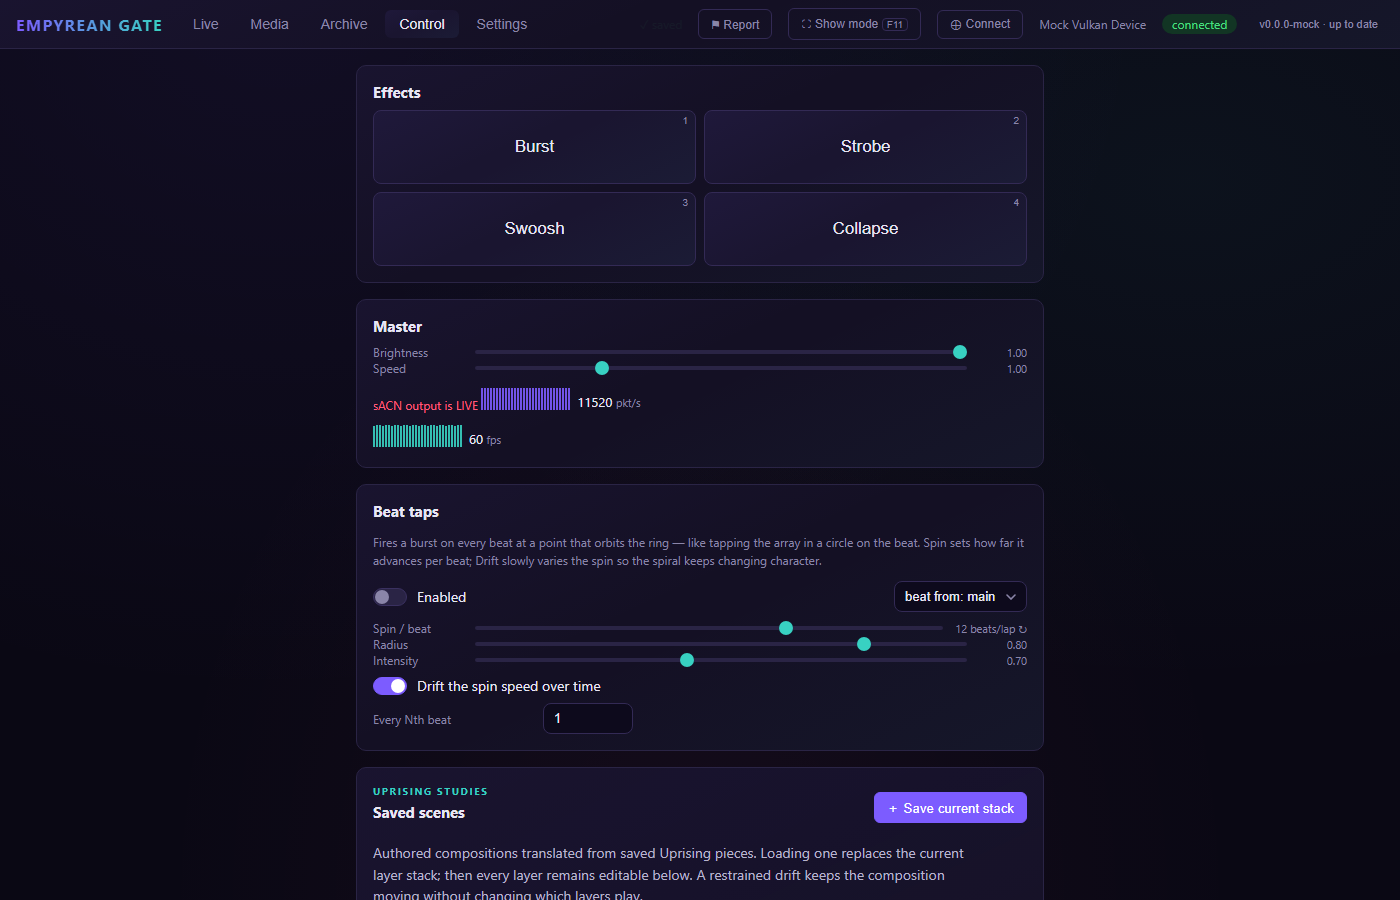
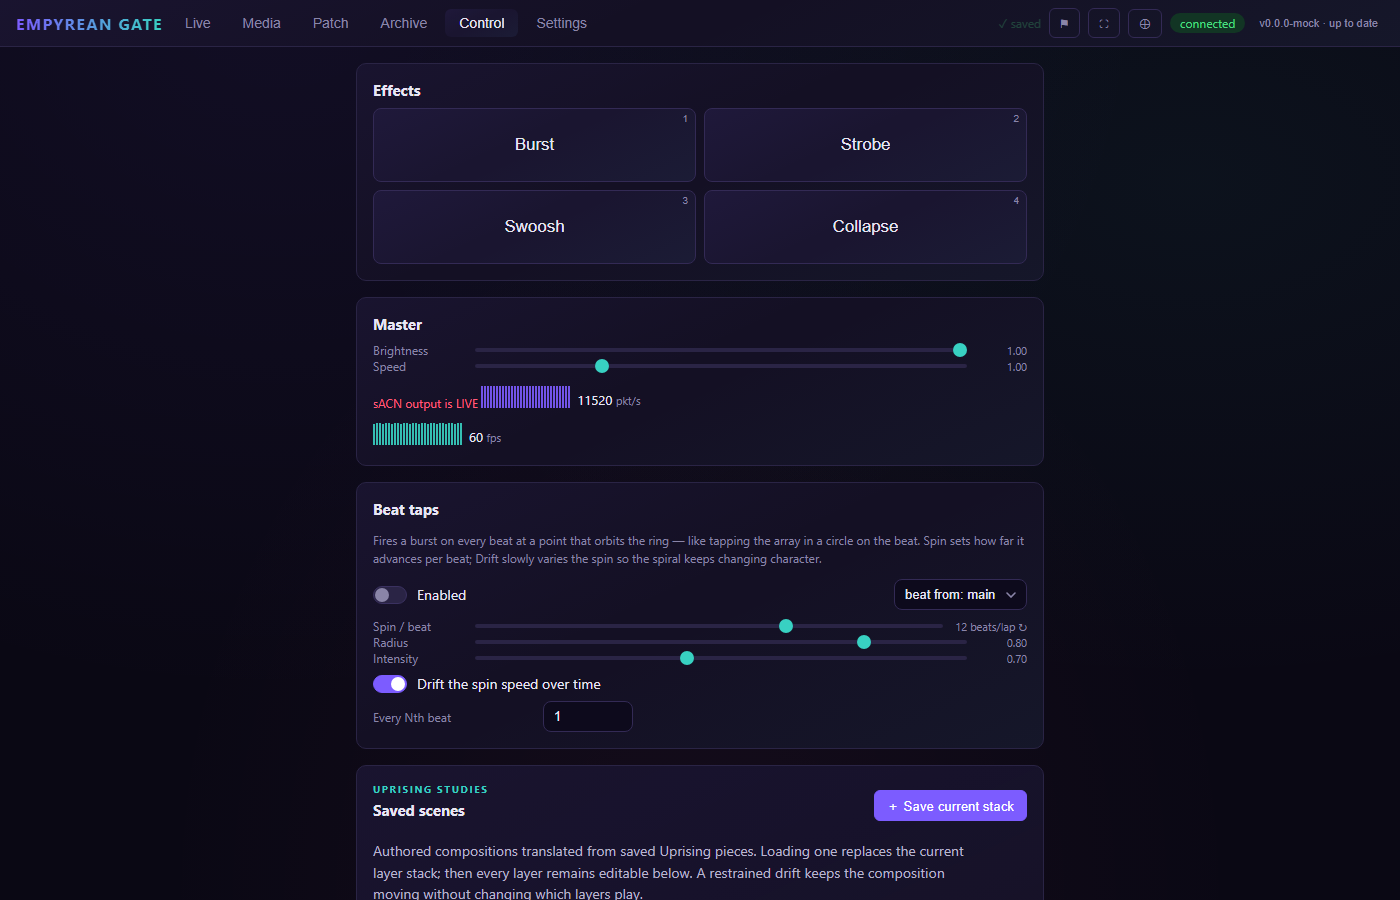
Live fills the window instead of a fixed-size deck
Two separate caps kept the performance surface small: the shell was
`max-width: 1780px` centred, leaving dead margins on a 1920 or 2560 display,
and the grid used a fixed 48px row height, so the deck was the same height on
every screen — unused space at 1080p and an overflowing page below that.

The page is now a full-height column, the shell takes the leftover height, and
row height is derived from it.

Rows grow to fill but never shrink. Shrinking them does make the deck fit, but
it fits by clipping the inside of each widget — the pen grid loses a row, the
effects pad loses a pair — so it looks broken and gains nothing. A screenshot
at 900x900 caught the first attempt doing exactly that. When there isn't enough
height the shell scrolls instead, which keeps the PAGE from scrolling; a page
scrollbar is what turns a touch drag into a scroll rather than a stroke.

So the layout gate's vertical-fit rule is back on for Live, which is what it
was written for. The topbar's label-collapse breakpoint also moves 1150 -> 1500,
since the Patch tab pushed it onto two lines at 1400.

diff --git a/src/Live.tsx b/src/Live.tsx
@@ -14,7 +14,8 @@ import {
   cloneControlDeck,
   DECK_BREAKPOINTS,
   DECK_COLUMNS,
-  DECK_MAX_WIDTH,
+  DECK_BASE_ROW_HEIGHT,
+  deckWidthGuess,
   defaultControlDeck,
   loadControlDecks,
   removeWidgetFromDeck,
@@ -80,7 +81,7 @@ export default function Live() {
   const [shortcutEditorId, setShortcutEditorId] = useState<string | null>(null);
   const beatDotRef = useRef<HTMLDivElement>(null);
   const { width: deckWidth, containerRef: deckContainerRef, mounted: deckMounted } =
-    useContainerWidth({ initialWidth: Math.min(window.innerWidth, DECK_MAX_WIDTH) });
+    useContainerWidth({ initialWidth: deckWidthGuess() });
   const breakpoint: DeckBreakpoint = deckWidth >= DECK_BREAKPOINTS.desktop
     ? "desktop"
     : deckWidth >= DECK_BREAKPOINTS.tablet
@@ -104,6 +105,45 @@ export default function Live() {
     ),
     [activeDeck.id, activeDeck.layouts, breakpoint],
   );
+
+  // Fill the window vertically as well as horizontally.
+  //
+  // react-grid-layout positions rows at a fixed pixel height, so with a constant
+  // `rowHeight` the deck was always the same height regardless of the display —
+  // leaving a band of dead screen on a 1080p show display, and overflowing into
+  // a page scrollbar on anything shorter. Deriving the row height from the space
+  // the shell actually got makes the deck exactly fill it.
+  //
+  // The shell's height is layout-driven (`flex: 1` inside a full-height column),
+  // never content-driven, so measuring it here cannot feed back into itself.
+  const [deckHeight, setDeckHeight] = useState(0);
+  useEffect(() => {
+    const shell = deckContainerRef.current;
+    if (!shell) return;
+    setDeckHeight(shell.clientHeight);
+    const observer = new ResizeObserver(([entry]) => {
+      setDeckHeight(entry.contentRect.height);
+    });
+    observer.observe(shell);
+    return () => observer.disconnect();
+  }, [deckContainerRef, deckMounted]);
+
+  const rowHeight = useMemo(() => {
+    const gap = breakpoint === "phone" ? 8 : 10;
+    const rows = Math.max(
+      1,
+      ...(renderedLayouts[breakpoint] ?? []).map((item) => item.y + item.h),
+    );
+    // Phones scroll by design, so they keep the fixed row height.
+    if (breakpoint === "phone" || deckHeight <= 0) return DECK_BASE_ROW_HEIGHT;
+    const available = deckHeight - gap * 2 - gap * (rows - 1);
+    // GROW to fill, never shrink. Squeezing rows below the base height does make
+    // the deck fit, but it does it by clipping the content inside each widget
+    // (a pen grid loses its last row, an effects pad loses its last pair) — the
+    // deck looks broken and gains nothing. When there is not enough height, keep
+    // the widgets readable and let the shell scroll instead.
+    return Math.max(DECK_BASE_ROW_HEIGHT, available / rows);
+  }, [deckHeight, renderedLayouts, breakpoint]);
 
   useEffect(() => {
     saveControlDecks(decks);
@@ -584,7 +624,7 @@ export default function Live() {
             layouts={renderedLayouts}
             breakpoints={DECK_BREAKPOINTS}
             cols={DECK_COLUMNS}
-            rowHeight={48}
+            rowHeight={rowHeight}
             margin={{ phone: [8, 8], tablet: [10, 10], desktop: [10, 10] }}
             containerPadding={{ phone: [8, 8], tablet: [10, 10], desktop: [10, 10] }}
             compactor={noCompactor}

diff --git a/src/styles.css b/src/styles.css
@@ -939,8 +939,10 @@ main {
 
 /* One line of chrome is worth more than the GPU name, the key hints and the
    button labels; below this the topbar would otherwise wrap and steal height
-   from the array view. Icons stay — they are what gets tapped. */
-@media (max-width: 1150px) {
+   from the array view. Icons stay — they are what gets tapped.
+   Raised from 1150 to 1500 when the Patch tab arrived: six tabs plus the action
+   buttons no longer fit on one line at 1400. */
+@media (max-width: 1500px) {
   .topbar {
     gap: 8px;
   }
@@ -2591,9 +2593,16 @@ button:disabled {
 
 .control-deck-page {
   position: relative;
-  display: block;
-  height: auto;
-  min-height: 100%;
+  /* A column that FILLS the window rather than growing to fit its content: the
+     deck is the performance surface, so unused screen is wasted screen, and a
+     page that scrolls means a touch drag scrolls instead of playing. The shell
+     below takes the leftover height and the grid sizes its rows to match.
+     The mobile breakpoint opts back out — there, stacking and scrolling is the
+     right answer. */
+  display: flex;
+  flex-direction: column;
+  height: 100%;
+  min-height: 0;
   padding: 0;
 }
 
@@ -2674,9 +2683,18 @@ button:disabled {
 
 .control-deck-shell {
   width: 100%;
-  max-width: 1780px;
-  min-height: 240px;
+  /* No max-width: on a 1920 or 2560 show display a centred 1780px deck left
+     dead margins down both sides. */
+  flex: 1;
+  min-height: 0;
   margin: 0 auto;
+  /* Only bites when the deck has more rows than the window can give a usable
+     height to (rows stop shrinking at DECK_MIN_ROW_HEIGHT). Then the deck
+     scrolls inside itself rather than pushing the PAGE into a scrollbar — a
+     page scrollbar is what turns a touch drag into a scroll instead of a
+     stroke, which is the thing worth preventing. */
+  overflow: auto;
+  scrollbar-width: thin;
 }
 
 .control-deck-shell > .react-grid-layout {
@@ -3326,12 +3344,17 @@ button:disabled {
 }
 
 @media (max-width: 700px) {
+  /* Phones opt out of the fill-the-window behaviour: a stacked deck on a narrow
+     screen wants to be scrolled, not squeezed into one screenful. */
   .control-deck-page {
     display: block;
+    height: auto;
+    min-height: 100%;
     padding: 0 0 calc(8px + env(safe-area-inset-bottom));
   }
 
   .control-deck-shell {
+    flex: none;
     max-width: none;
   }
 

diff --git a/src/controlDecks.ts b/src/controlDecks.ts
@@ -40,12 +40,21 @@ export const DECK_BREAKPOINTS: Record<DeckBreakpoint, number> = {
   phone: 0,
 };
 
-/// Widest the deck ever gets, mirroring `.control-deck-shell { max-width }`.
-/// The grid positions its items with transforms computed from the width it is
-/// told, so a first-paint guess LARGER than the container throws items past the
-/// right edge and the whole app briefly grows a horizontal scrollbar — caught by
-/// the layout gate at 2560x1080, where the gap between window and cap is biggest.
-export const DECK_MAX_WIDTH = 1780;
+/// First-paint width guess. The grid positions items with transforms computed
+/// from the width it is told, so a guess LARGER than the container throws items
+/// past the right edge and the app briefly grows a horizontal scrollbar (the
+/// layout gate caught exactly that at 2560x1080). The shell is full-bleed now,
+/// so the window width minus the page's own padding is the right estimate; the
+/// resize observer corrects it on the next frame either way.
+export const deckWidthGuess = () => Math.max(320, window.innerWidth - 20);
+
+/// Row height floor, and what phones use outright (there the deck scrolls by
+/// design rather than being squeezed into one screenful). Rows only ever grow
+/// above this to fill a taller window — shrinking below it clips the content
+/// inside the widgets instead of making anything fit.
+export const DECK_BASE_ROW_HEIGHT = 48;
+
+
 
 export const DECK_COLUMNS: Record<DeckBreakpoint, number> = {
   desktop: 12,

diff --git a/tests/layout.spec.ts b/tests/layout.spec.ts
@@ -43,14 +43,12 @@ const TABS = ["live", "media", "control", "settings"] as const;
 
 /// Tabs required to fit on screen with no scrolling at all.
 ///
-/// Empty for now, deliberately. The Live tab used to be here — a scrollbar on the
-/// performance surface means a touch drag scrolls the page instead of playing the
-/// array, which is the bug that prompted this gate. But the control-deck rework
-/// made Live a scrolling, user-arranged page on purpose, and its default deck is
-/// ~930px tall regardless of window size, so it scrolls at anything below 1080p.
-/// Reinstating the rule is a one-word change once that design question is
-/// settled; it is left off rather than silently overriding the deck's design.
-const MUST_FIT_VERTICALLY = new Set<string>();
+/// Live is the performance surface: a scrollbar there means a touch drag scrolls
+/// the page instead of playing the array, which is the bug that prompted this
+/// gate in the first place. The rule was off for one round while the control
+/// deck sized its rows at a fixed 48px and therefore scrolled below 1080p; the
+/// deck now derives row height from the space it is given, so this holds again.
+const MUST_FIT_VERTICALLY = new Set<string>(["live"]);
 
 interface Overflow {
   axis: "horizontal" | "vertical";

diff --git a/tests/screenshots.spec.ts b/tests/screenshots.spec.ts
@@ -13,8 +13,18 @@
 
 import { test } from "@playwright/test";
 
-const SHOTS = [
+interface Shot {
+  file: string;
+  hash: string;
+  width: number;
+  height: number;
+  /** Enter show mode first: fullscreen, no chrome — how the Gate machine runs. */
+  showMode?: boolean;
+}
+
+const SHOTS: Shot[] = [
   { file: "live-wide.png", hash: "live", width: 1400, height: 900 },
+  { file: "live-show-1080p.png", hash: "live", width: 1920, height: 1080, showMode: true },
   { file: "live-square.png", hash: "live", width: 900, height: 900 },
   { file: "live-tall.png", hash: "live", width: 820, height: 1180 },
   { file: "control.png", hash: "control", width: 1400, height: 900 },
@@ -27,6 +37,10 @@ for (const shot of SHOTS) {
     await page.setViewportSize({ width: shot.width, height: shot.height });
     await page.goto(`/#${shot.hash}`);
     await page.locator('.app[data-connected="yes"]').waitFor({ state: "attached" });
+    if (shot.showMode) {
+      await page.getByRole("button", { name: /Show mode/ }).click();
+      await page.locator(".show-exit").waitFor();
+    }
     // Let the preview stream paint a few frames so the array is lit.
     await page.waitForTimeout(1200);
     await page.screenshot({ path: `docs/${shot.file}` });

diff --git a/plans/empyrean-gate.md b/plans/empyrean-gate.md
@@ -680,6 +680,40 @@ bytes appended so size can); and the versioned download must be named
 `empyrean-gate-v<version>` matching the binary's own version, or the successor
 correctly decides it is not running from a download at all.
 
+### Round 14d: Live fills the window (2026-08-23)
+
+"live seems to be limited in size? full screen should use as much of the screen
+as possible" — this settles the question round 14b left open, and it was two
+separate caps:
+
+- **Width.** `.control-deck-shell` had `max-width: 1780px; margin: 0 auto`, so a
+  1920 or 2560 display got dead margins down both sides. Removed.
+- **Height.** The grid used a fixed `rowHeight={48}`, so the deck was the same
+  height on every display — a band of unused screen at 1080p, and an overflowing
+  page below that. `.control-deck-page` is now a full-height flex column, the
+  shell takes the leftover height, and the row height is derived from it.
+
+**Rows GROW to fill but never shrink.** Shrinking them does make the deck fit,
+but it fits by clipping the contents of each widget — the pen grid loses its
+last row, the effects pad loses a pair — so the deck looks broken and nothing is
+gained. Caught it in a screenshot at 900x900 after the first attempt did exactly
+that. Below the base height the shell scrolls instead, which keeps the *page*
+from scrolling (a page scrollbar is what turns a touch drag into a scroll rather
+than a stroke — the thing actually worth preventing).
+
+Consequently **the gate's `MUST_FIT_VERTICALLY` rule is back on for Live**, which
+is the strongest state it has been in. Phones still opt out at the 700px
+breakpoint, where stacking and scrolling is the design.
+
+Also: the Patch tab pushed the topbar onto two lines at 1400px, so the
+label-collapse breakpoint moved 1150 → 1500. And `docs/live-show-1080p.png` is a
+new screenshot taken in show mode at the display's real resolution, since that is
+the configuration that actually ships.
+
+Known, not fixed: the deck's scheduler widget ("Blackout · 0.00 · HOLD") clips
+its own text at the default widget size. It lives inside a scrolling widget body
+so it is reachable, and it is the deck author's default layout.
+
 ### Windows shell gestures (asked 2026-08-22, not applied)
 
 The in-webview gestures are handled (round 14). The remaining ones are the
@@ -706,11 +740,11 @@ established pattern for machine settings this app needs.
 
 ### Still to confirm with the user (needs the real touch display)
 
-0. Should the Live control deck be forced to fit the window (derive `rowHeight`
+~~0. Should the Live control deck be forced to fit the window (derive `rowHeight`
    from the available height instead of a fixed 48) so the show surface never
    scrolls? Recommendation: yes — a scrolling performance surface means a touch
    drag scrolls the page instead of playing — but it changes a collaborator's
-   deliberate design, so it needs a decision.
+   deliberate design, so it needs a decision. **ANSWERED — done, see round 14d.**
 1. Does the tap artifact (square background flash) actually go away? Two fixes
    landed for it; if it persists, the next suspect is WebView2 compositing the
    transparent canvas, and the test is whether an opaque canvas backdrop stops it.
